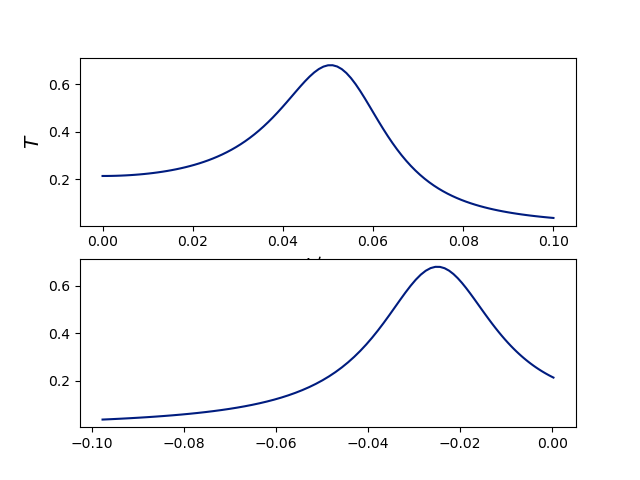
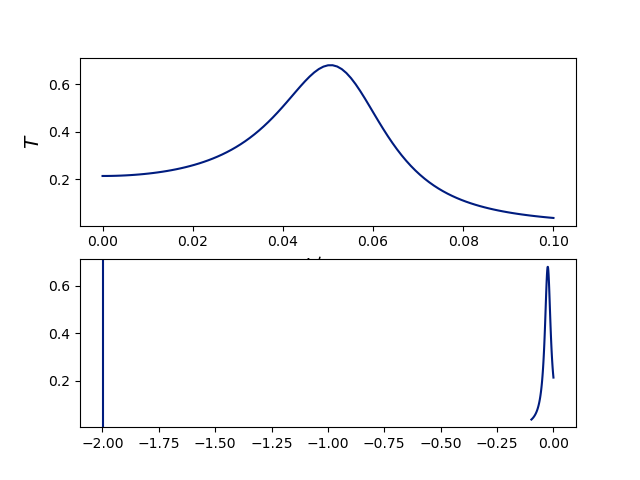
update png

diff --git a/run2_cicc.py b/run2_cicc.py
@@ -18,6 +18,7 @@ from transport.wfm import utils
 
 import numpy as np
 import matplotlib.pyplot as plt
+from matplotlib import cm
 from mpl_toolkits.axes_grid1.inset_locator import inset_axes
 import sys
 
@@ -248,7 +249,7 @@ if False: # vary kx0 by varying Vgate
     raise(Exception);
     
         
-if True: # plot fig 2b data
+if False: # plot fig 2b data
 
     # plot each file given at command line
     fig, axes = plt.subplots();
@@ -282,7 +283,7 @@ if True: # plot fig 2b data
 ##################################################################################
 #### N_SR = 2 calcs
 
-if False: # vary kx0 by varying Vgate, at low energy
+if True: # vary kx0 by varying Vgate, at low energy
     
     # incident state
     theta_param = np.pi/4;
@@ -333,44 +334,51 @@ if False: # vary kx0 by varying Vgate, at low energy
     Ttotals = np.sum(Tvals, axis = 1);
 
     # plot
-    fig = plt.figure();
-    ax = fig.add_subplot(projection = "3d");
+    fig, axes = plt.subplots(2)
     axes[0].plot(kavals/np.pi, Ttotals);
     axes[1].plot(Vgvals, Ttotals);
+    axes[1].axvline(Energy);
     axes[0].set_xlabel("$k'a/\pi$", fontsize = "x-large");
     axes[0].set_ylabel("$T$", fontsize = "x-large");
     plt.savefig("my_fig_2d");
 
     # vary theta at Vg = E (k'a = 0) resonance to show detection
     myVg = Energy
-    thetavals = np.linspace(0, 2*np.pi, 499);
-    Tvals = [];
-    for thetaval in thetavals:
+    thetavals = np.linspace(0, 2*np.pi, 49);
+    phivals = np.linspace(0, 2*np.pi, 49);
+    Ttotals = np.zeros((len(thetavals), len(phivals)));
+
+    # iter over entanglement space
+    for ti in range(len(thetavals)):
+        for pi in range(len(phivals)):
+
+            thetaval = thetavals[ti];
+            phival = phivals[pi];
 	
-        source = np.zeros(8);
-        source[1] = np.cos(thetaval);
-        source[2] = np.sin(thetaval);
+            source = np.zeros(8, dtype = complex);
+            source[1] = np.cos(thetaval);
+            source[2] = np.sin(thetaval)*np.exp(complex(0,phival));
 
-        # construct blocks of hamiltonian
-        # now need to have 0's on each end !!!
-        hblocks, tblocks = wfm.utils.h_cicc_eff(Jeff, tl, 1, N_SR, N_SR+2);
-        for blocki in range(len(hblocks)): # add Vg in SR
-            if(blocki > 0 and blocki < N_SR + 1): # if in SR
-                hblocks[blocki] += myVg*np.eye(np.shape(hblocks[0])[0])
+            # construct blocks of hamiltonian
+            # now need to have 0's on each end !!!
+            hblocks, tblocks = wfm.utils.h_cicc_eff(Jeff, tl, 1, N_SR, N_SR+2);
+            for blocki in range(len(hblocks)): # add Vg in SR
+                if(blocki > 0 and blocki < N_SR + 1): # if in SR
+                    hblocks[blocki] += myVg*np.eye(np.shape(hblocks[0])[0])
 
-        # get data
-        Tvals.append(wfm.kernel(hblocks, tblocks, tl, Energy, source));
-    Tvals = np.array(Tvals);
-    Ttotals = np.sum(Tvals, axis = 1);
+            # get data
+            Ttotals[ti, pi] = sum(wfm.kernel(hblocks, tblocks, tl, Energy, source));
 
     # plot
-    fig, ax = plt.subplots(projection = "3d");
-    ax.plot_surface(thetavals/np.pi, Ttotals);
+    fig = plt.figure();
+    ax = fig.add_subplot(projection = "3d");
+    ax.plot_surface(thetavals/np.pi, phivals/np.pi, Ttotals, cmap = cm.coolwarm);
     ax.set_xlabel("$\\theta/\pi$", fontsize = "x-large");
-    ax.set_ylabel("$T$", fontsize = "x-large");
+    ax.set_ylabel("$\phi/np.pi$", fontsize = "x-large");
     ax.set_xticks([0,1,2]);
+    ax.set_yticks([0,1,2]);
     ax.set_xlim(0,2);
-    ax.set_ylim(0,1.05);
+    ax.set_ylim(0,2);
     plt.savefig("my_fig_2d_new");
     raise(Exception);
 

diff --git a/transport/wfm/__init__.py b/transport/wfm/__init__.py
@@ -66,7 +66,7 @@ def kernel(h, th, tl, E, qi, verbose = 0):
     G = Green(h, th, tl, E, verbose = verbose);
 
     # coefs
-    qivector = np.zeros(np.shape(G)[0]); # go from block space to full space
+    qivector = np.zeros(np.shape(G)[0], dtype = complex); # go from block space to full space
     for j in range(len(qi)):
         qivector[j] = qi[j]; # fill from block space
     Gqi = np.dot(G, qivector);
